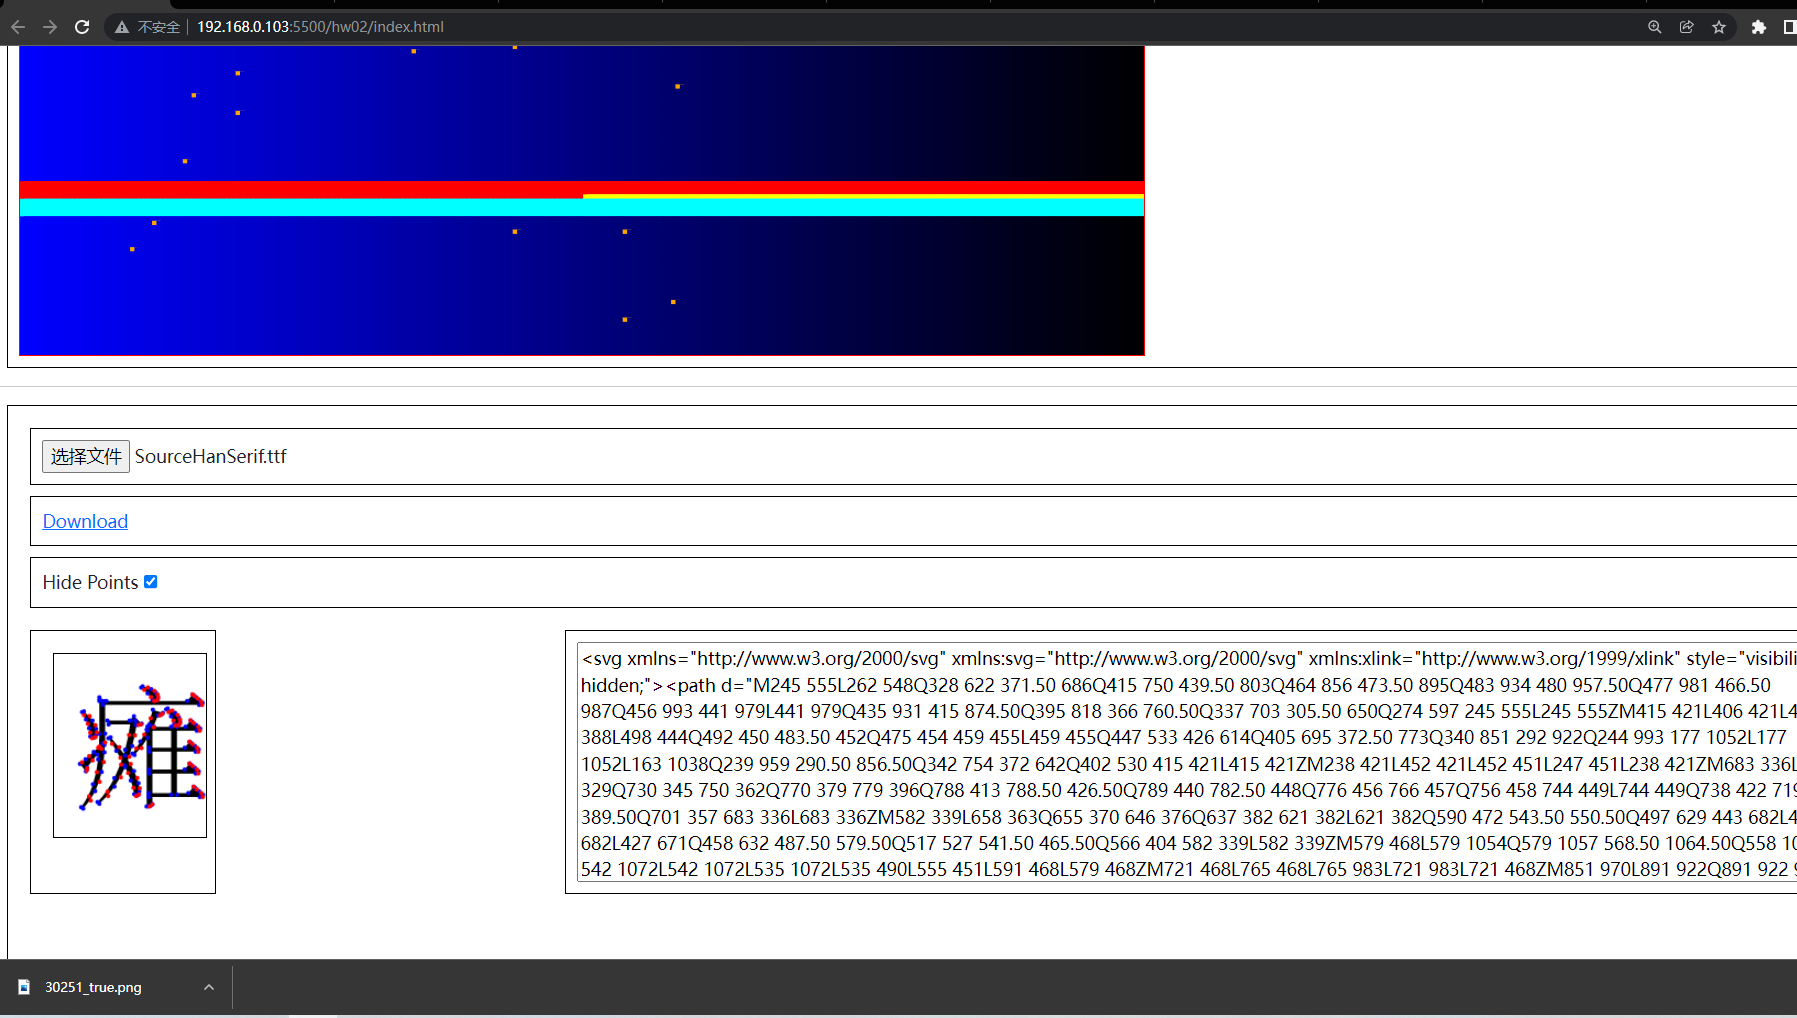
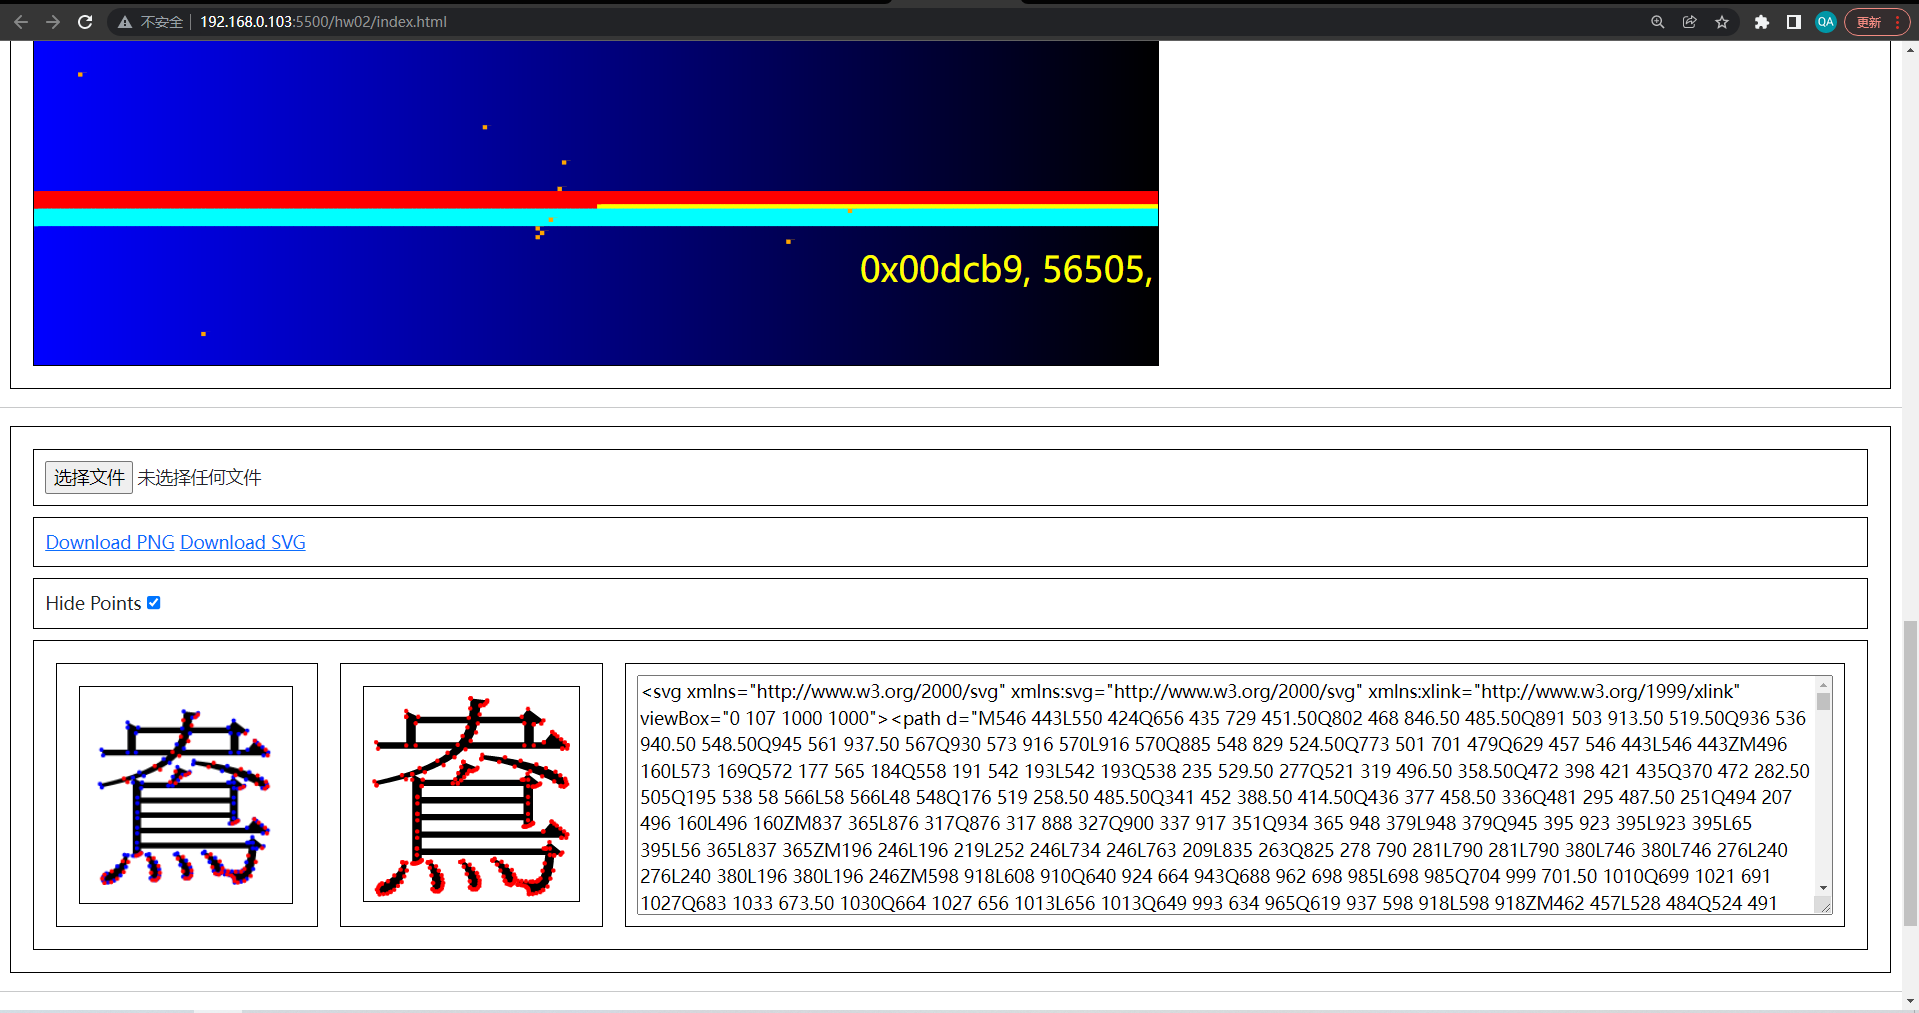
hw2

Changed region(s): [[0.0, 0.3978, 1.0, 1.0], [0.0, 0.0, 1.0, 0.3672]]

diff --git a/hw02/create_font.js b/hw02/create_font.js
@@ -5,17 +5,18 @@ function createGlyphCanvas(glyph, size) {
     var canvasId, html, glyphsDiv, wrap, canvas, ctx;
     //canvasId = "c" + glyph.index;
     canvasId = "cid";
+
     html =
-        '<div class="wrapper" style="width:' +
-        size +
-        'px"><canvas id="' +
+        '<div class="wrapper" style="width:90%;height=100%;' +
+        '' +
+        '"><canvas id="' +
         canvasId +
         '" width="' +
         size +
         '" height="' +
         size +
-        'display="inline-block""></canvas>';
-    glyphsDiv = document.getElementById("svg_image");
+        '"></canvas>';
+    glyphsDiv = document.getElementById("svg_image_png");
     glyphsDiv.innerHTML = html;
     canvas = document.getElementById(canvasId);
     ctx = canvas.getContext("2d");
@@ -26,15 +27,16 @@ function createGlyphCanvas(glyph, size) {
 function create_font_svg() {
     /** Your code goes here */
     if (openTypeFont !== null) {
-        d3.select("#svg_image").html("");
+        d3.select("#svg_image_png").html("");
+        d3.select("#svg_image_svg").html("");
         d3.select("#svg_text").html("");
         var str = String.fromCodePoint(code_point);
         var font = openTypeFont;
         var glyph = font.stringToGlyphs(str)[0];
-        var ctx = createGlyphCanvas(glyph, 140);
-        var x = 10;
-        var y = 120;
-        var fontSize = 120;
+        var ctx = createGlyphCanvas(glyph, 170);
+        var x = 0;
+        var y = 155;
+        var fontSize = 170;
 
         var check_status = document.getElementById("point-switch").checked;
         if (check_status == false) {
@@ -50,35 +52,22 @@ function create_font_svg() {
             var c = [];
             for (let i = 0; i < commands.length; i += 1) {
                 const cmd = commands[i];
-                if (cmd.type === "M") {
+                if (cmd.type === 'M') {
                     p.moveTo(cmd.x, height - cmd.y);
                     c.push([cmd.x, height - cmd.y]);
-                } else if (cmd.type === "L") {
+                } else if (cmd.type === 'L') {
                     p.lineTo(cmd.x, height - cmd.y);
                     c.push([cmd.x, height - cmd.y]);
-                    c.push([cmd.x - 1, height - cmd.y - 1]);
-                } else if (cmd.type === "Q") {
-                    p.quadraticCurveTo(
-                        cmd.x1,
-                        height - cmd.y1,
-                        cmd.x,
-                        height - cmd.y
-                    );
+                } else if (cmd.type === 'Q') {
+                    p.quadraticCurveTo(cmd.x1, height - cmd.y1, cmd.x, height - cmd.y);
                     c.push([cmd.x1, height - cmd.y1]);
                     c.push([cmd.x, height - cmd.y]);
-                } else if (cmd.type === "C") {
-                    p.curveTo(
-                        cmd.x1,
-                        height - cmd.y1,
-                        cmd.x2,
-                        height - cmd.y2,
-                        cmd.x,
-                        height - cmd.y
-                    );
+                } else if (cmd.type === 'C') {
+                    p.curveTo(cmd.x1, height - cmd.y1, cmd.x2, height - cmd.y2, cmd.x, height - cmd.y);
                     c.push([cmd.x1, height - cmd.y1]);
                     c.push([cmd.x2, height - cmd.y2]);
                     c.push([cmd.x, height - cmd.y]);
-                } else if (cmd.type === "Z") {
+                } else if (cmd.type === 'Z') {
                     p.closePath();
                 }
             }
@@ -86,17 +75,30 @@ function create_font_svg() {
         };
         var svgPathObj = mkPath(glyph.path.commands, font.unitsPerEm);
         var tmpPath = svgPathObj[0];
+
         var svg3 = d3
-            .select("#svg_image")
+            .select("#svg_image_svg")
             .append("svg")
             .attr("xmlns", "http://www.w3.org/2000/svg")
             .attr("xmlns:svg", "http://www.w3.org/2000/svg")
             .attr("xmlns:xlink", "http://www.w3.org/1999/xlink")
-            .style("visibility", "hidden");
+            .attr('viewBox', [0, -glyph.yMin + 30, font.unitsPerEm, font.unitsPerEm].join(' '));
+
         svg3
             .append("path")
             .attr("d", tmpPath.toPathData())
             .attr("class", "font-svg");
+
+        if (check_status == true) {
+            var font_point = svgPathObj[1];
+            for (let point of font_point) {
+                svg3.append('circle')
+                    .attr('cx', point[0])
+                    .attr('cy', point[1])
+                    .attr('r', 10)
+                    .attr('fill', "red")
+            }
+        }
         d3.select("#svg_text").html(svg3.node().outerHTML);
         svgHTML = svg3.node().outerHTML;
     }

diff --git a/hw02/index.html b/hw02/index.html
@@ -20,9 +20,9 @@
       }
 
       svg {
-        border: red solid 1px;
-        /*margin: 10px;*/
-        font-size: 36pt;
+        border: black solid 1px;
+        margin: 10px;
+        font-size: 10pt;
       }
 
       li {
@@ -113,7 +113,8 @@
         <input type="file" id="select-font" />
       </div>
       <div>
-        <a href="javascript:void(0)" id="download-svg"> Download </a>
+        <a href="javascript:void(0)" id="download-png"> Download PNG</a>
+        <a href="javascript:void(0)" id="download-svg"> Download SVG</a>
       </div>
       <div>
         <label for="point-switch"> Hide Points </label>
@@ -124,15 +125,21 @@
           checked
         />
       </div>
-      <div
-        id="svg_image"
-        style="display: inline-block; height: 15rem; width: 10%"
-      ></div>
-      <div
-        id="glyphs"
-        style="display: inline-block; height: 15rem; width: 70%; float: right"
-      >
-        <textarea id="svg_text" style="height: 100%; width: 100%"></textarea>
+      <div style="display: flex">
+        <div
+          id="svg_image_png"
+          style="display: inline-block; height: 15rem; width: 15%"
+        ></div>
+        <div
+          id="svg_image_svg"
+          style="display: inline-block; height: 15rem; width: 15%"
+        ></div>
+        <div
+          id="glyphs"
+          style="display: inline-block; height: 15rem; width: 70%; float: right"
+        >
+          <textarea id="svg_text" style="height: 100%; width: 100%"></textarea>
+        </div>
       </div>
 
       <div style="clear: both; padding: 0; border: 0"></div>
@@ -164,7 +171,7 @@
     <!-- score outputer -->
     <script src="https://cdn.jsdelivr.net/gh/t109598105/ScoreOutputer@latest/dist/scoreoutputer.min.js"></script>
     <script src="./FileSaver.js"></script>
-    <script src="./boring.js"></script>
+    <script src="./create_font.js"></script>
     <script type="text/javascript">
       /** Global variables */
       var openTypeFont = null;
@@ -471,12 +478,23 @@
         /** download svg text */
         /** Your code goes here */
         /***/
-        d3.select("#download-svg").on("click", function () {
+        d3.select("#download-png").on("click", function () {
           var canvas = document.getElementById("cid");
           canvas.toBlob(function (blob) {
             var point_status = document.getElementById("point-switch").checked;
             saveAs(blob, code_point.toString() + "_" + point_status + ".png");
           });
+        });
+
+        d3.select("#download-svg").on("click", function () {
+          var a = d3
+            .create("a")
+            .attr(
+              "href",
+              URL.createObjectURL(new Blob([svgHTML], { type: "text/plain" }))
+            )
+            .attr("download", "output.svg");
+          a.node().click();
         });
       });
 

diff --git a/hw02/MyPath.js b/hw02/MyPath.js
@@ -2,9 +2,9 @@ var MyPath = function () {
 
     function derive(v0, v1, v2, v3, t) {
         return Math.pow(1 - t, 3) * v0 +
-        3 * Math.pow(1 - t, 2) * t * v1 +
-        3 * (1 - t) * Math.pow(t, 2) * v2 +
-        Math.pow(t, 3) * v3;
+            3 * Math.pow(1 - t, 2) * t * v1 +
+            3 * (1 - t) * Math.pow(t, 2) * v2 +
+            Math.pow(t, 3) * v3;
     }
     /**
      * A bounding box is an enclosing box that describes the smallest measure within which all the points lie.
@@ -314,32 +314,32 @@ var MyPath = function () {
         for (let i = 0; i < this.commands.length; i++) {
             const cmd = this.commands[i];
             switch (cmd.type) {
-            case 'M':
-                box.addPoint(cmd.x, cmd.y);
-                startX = prevX = cmd.x;
-                startY = prevY = cmd.y;
-                break;
-            case 'L':
-                box.addPoint(cmd.x, cmd.y);
-                prevX = cmd.x;
-                prevY = cmd.y;
-                break;
-            case 'Q':
-                box.addQuad(prevX, prevY, cmd.x1, cmd.y1, cmd.x, cmd.y);
-                prevX = cmd.x;
-                prevY = cmd.y;
-                break;
-            case 'C':
-                box.addBezier(prevX, prevY, cmd.x1, cmd.y1, cmd.x2, cmd.y2, cmd.x, cmd.y);
-                prevX = cmd.x;
-                prevY = cmd.y;
-                break;
-            case 'Z':
-                prevX = startX;
-                prevY = startY;
-                break;
-            default:
-                throw new Error('Unexpected path command ' + cmd.type);
+                case 'M':
+                    box.addPoint(cmd.x, cmd.y);
+                    startX = prevX = cmd.x;
+                    startY = prevY = cmd.y;
+                    break;
+                case 'L':
+                    box.addPoint(cmd.x, cmd.y);
+                    prevX = cmd.x;
+                    prevY = cmd.y;
+                    break;
+                case 'Q':
+                    box.addQuad(prevX, prevY, cmd.x1, cmd.y1, cmd.x, cmd.y);
+                    prevX = cmd.x;
+                    prevY = cmd.y;
+                    break;
+                case 'C':
+                    box.addBezier(prevX, prevY, cmd.x1, cmd.y1, cmd.x2, cmd.y2, cmd.x, cmd.y);
+                    prevX = cmd.x;
+                    prevY = cmd.y;
+                    break;
+                case 'Z':
+                    prevX = startX;
+                    prevY = startY;
+                    break;
+                default:
+                    throw new Error('Unexpected path command ' + cmd.type);
             }
         }
         if (box.isEmpty()) {
